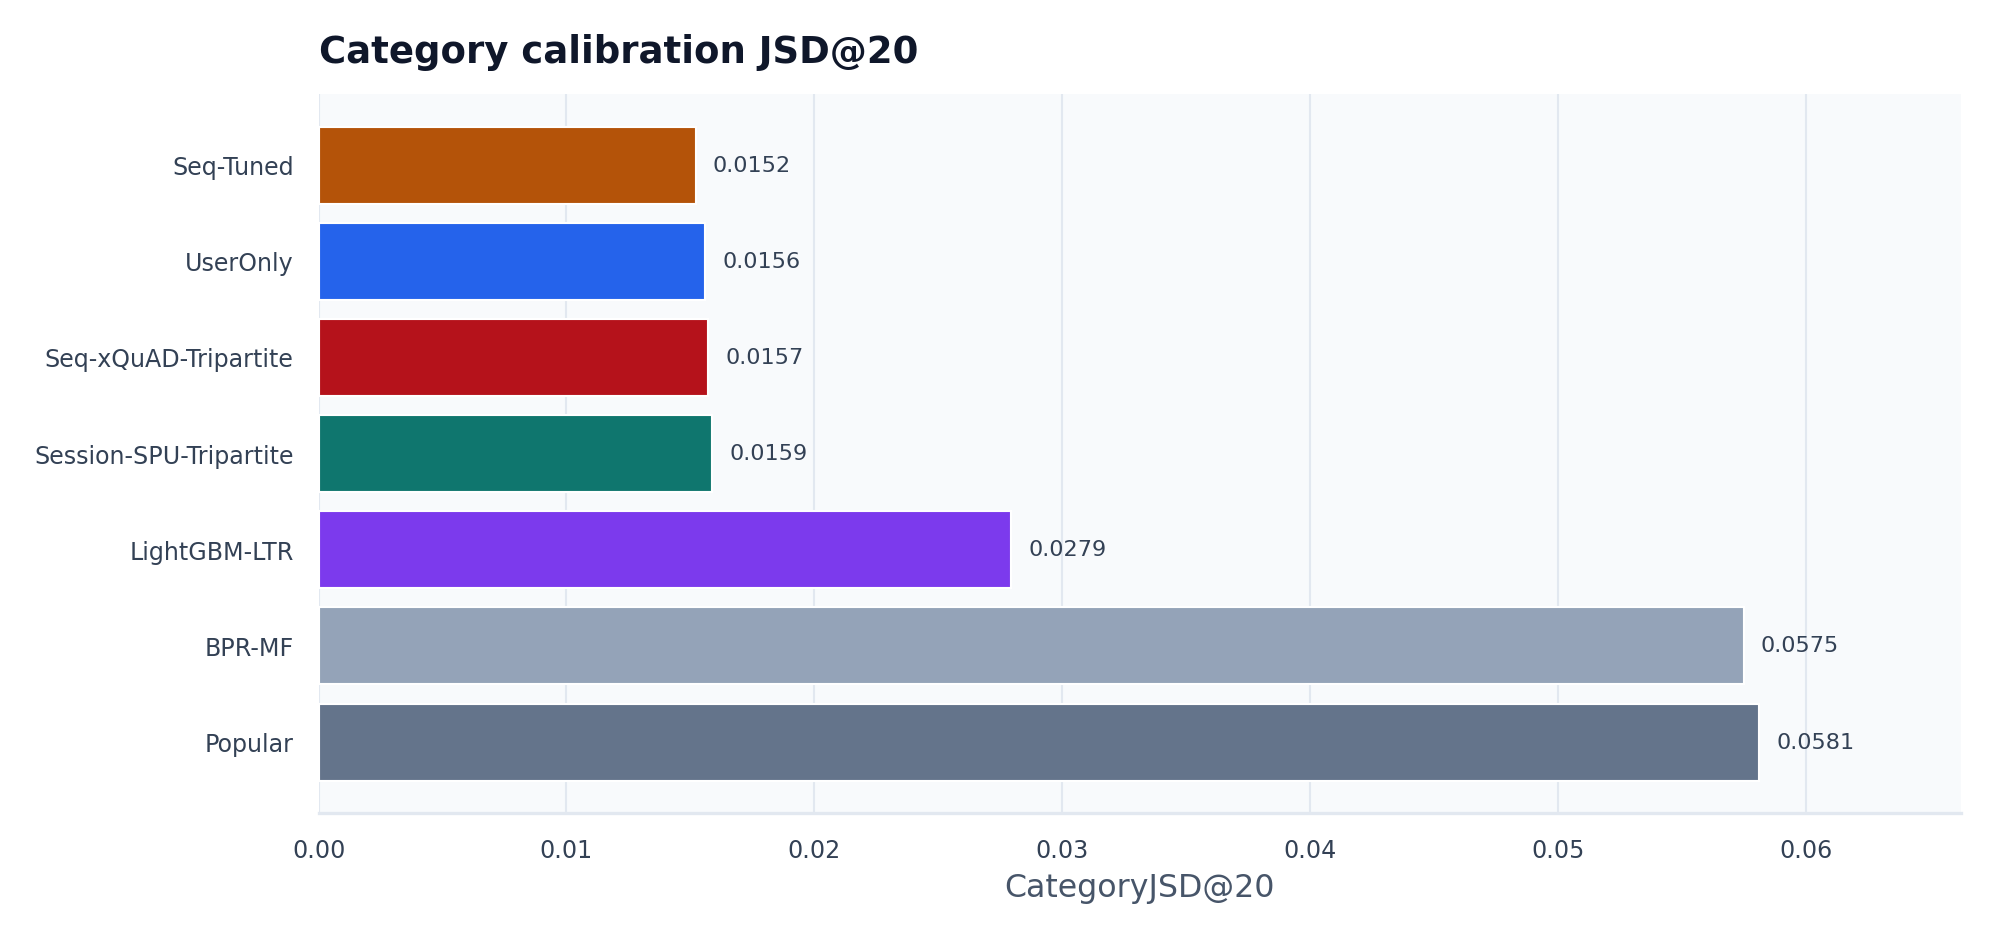
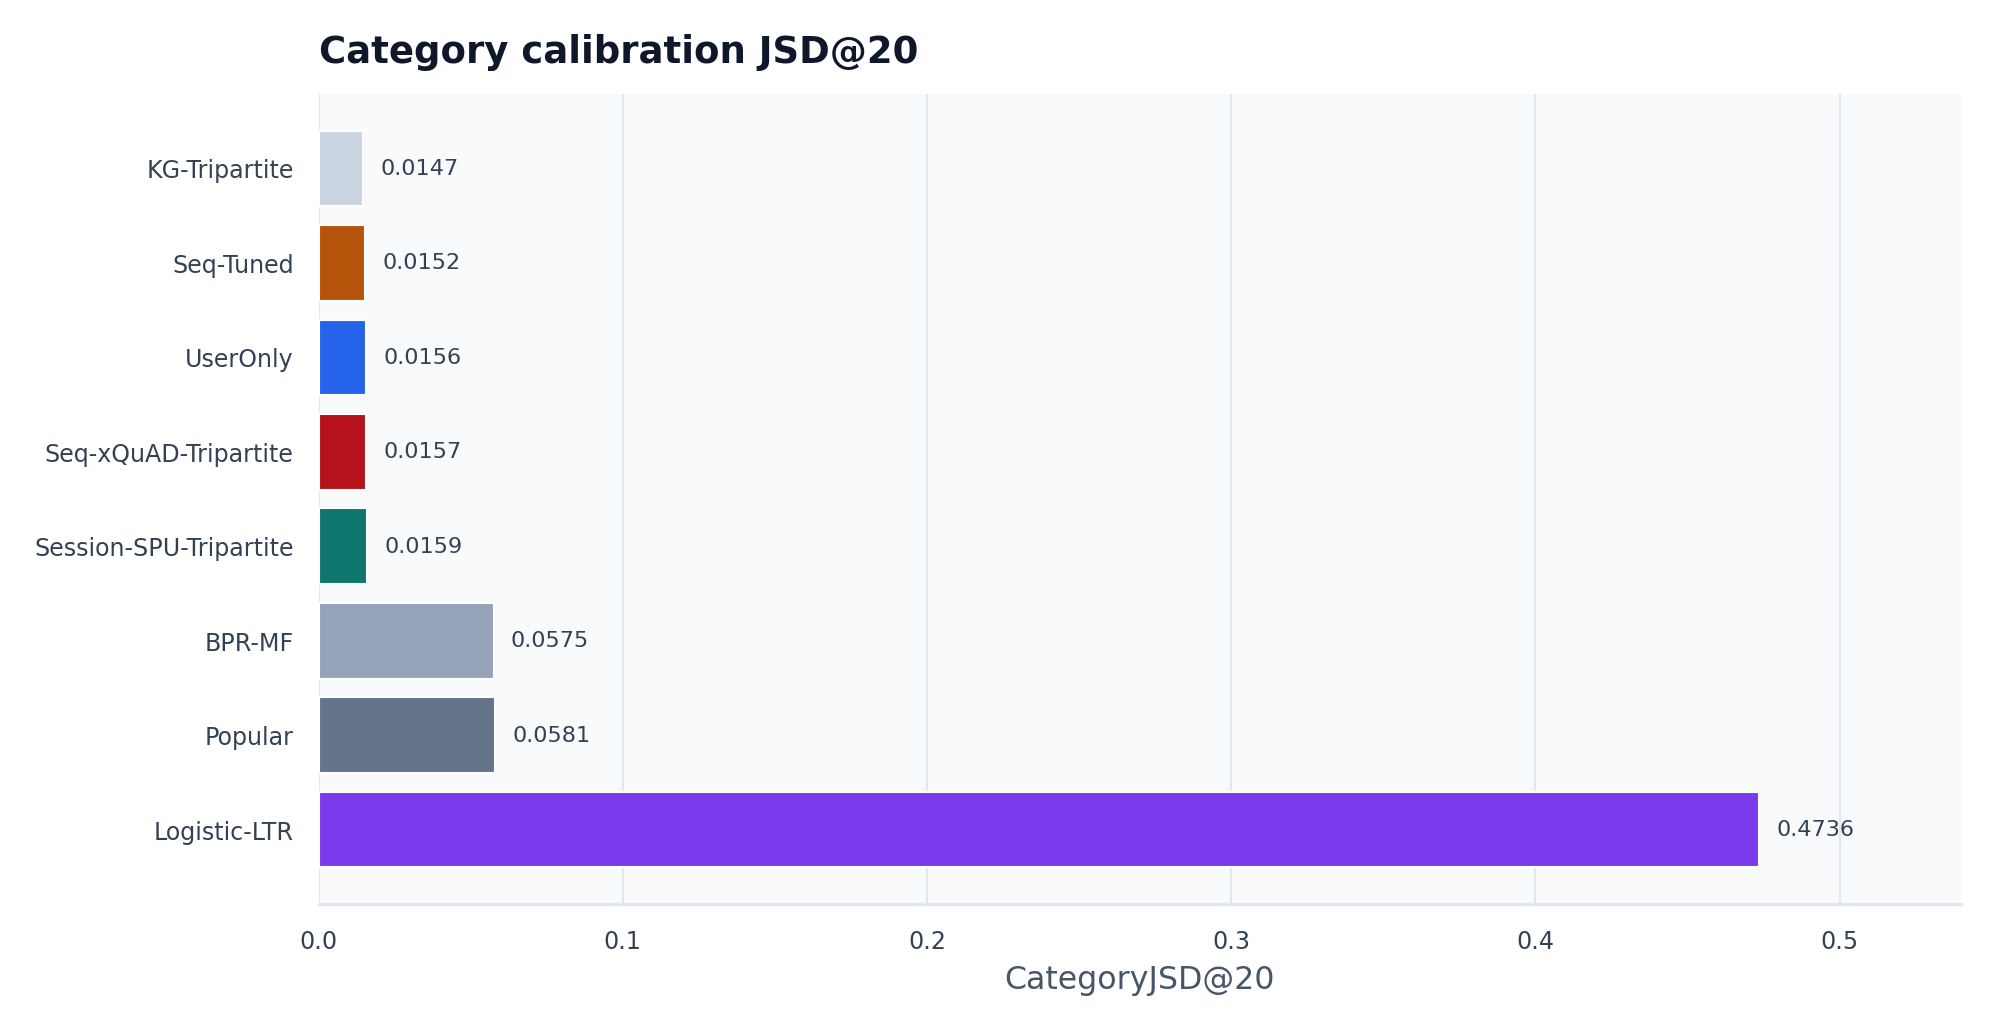
Refresh full-TRD results: 10-seed CI simulation, KG-Tripartite, fixed normalization
- offline_metrics: KG-Tripartite best tripartite variant (Recall@10 0.4136,
  HitRate@10 0.570), all tripartite scores now reflect session/spu/kg signals
- simulation_metrics: 10 seeds with mean/std/95% CI; KG-Tripartite + Batch
  leads avg ETA (45.08), timeout rate (0.417), platform utility (0.497±0.009)
- figures/report regenerated; report narrative covers KG fusion, multi-seed
  CI protocol, and calibration diagnostics

diff --git a/README.md b/README.md
@@ -254,21 +254,23 @@ make notebooklm-pack
 
 当前提交的结果已经使用完整 TRD `orders_train.txt`，数据审计显示原始训练订单 `1,068,495` 条，处理后训练订单 `1,068,495` 条，训练订单使用比例 `1.0000`。
 
-离线推荐中，`Seq-Tuned` 的 Recall@20 最高，为 `0.4675`，NDCG@20 为 `0.3652`，HitRate@20 为 `0.6267`，并取得最高 ExploreRecall@20 `0.1246`。`LightGBM-LTR` 的 Recall@20 为 `0.4424`，Coverage@20 为 `0.4345`，Exposure Gini 降到 `0.7942`，ExploreRecall@20 为 `0.0974`，说明默认评估中已经包含真正训练出来的学习排序。归一化后的 `Seq-xQuAD-Tripartite` 的 Recall@20 为 `0.4180`，NDCG@20 为 `0.3439`，把商家公平、ETA、供给分和列表级覆盖纳入同一套重排。
+离线推荐中，`Seq-Tuned` 的 Recall@10 最高，为 `0.4187`（NDCG@10 `0.3504`，HitRate@10 `0.5800`），代表纯用户侧准确率前沿。三方系列中 `KG-Tripartite` 表现最好：Recall@10 `0.4136`、NDCG@10 `0.3429`、HitRate@10 `0.5700`，在保留商家公平、ETA 和供给分量的同时几乎追平纯精度导向的序列模型；`Seq-xQuAD-Tripartite` 与 `Session-SPU-Tripartite` 的 Recall@10 均为 `0.3987`。
 
-动态履约仿真中，`Session-SPU-Tripartite + Greedy` 取得最低平均 ETA、最低超时率和最高平台综合效用；在同一批 91 个订单上，批量三方匹配相较逐单版本进一步降低 ETA 和超时率：
+动态履约仿真采用 10 个随机种子重复运行，报告均值与 95% 置信区间（完整 `_std`/`_ci95` 列见 `outputs/results/simulation_metrics.csv`）。`KG-Tripartite + Batch` 在平均 ETA、超时率和平台综合效用上全面领先：
 
-| 策略 | Avg ETA | Timeout Rate | Platform Utility |
+| 策略 | Avg ETA (±CI95) | Timeout Rate (±CI95) | Platform Utility (±CI95) |
 |---|---:|---:|---:|
-| Popular + Nearest | 89.68 | 0.8025 | 0.3218 |
-| UserOnly + MinETA | 52.14 | 0.6897 | 0.4060 |
-| Seq-Tuned + MinETA | 50.51 | 0.6163 | 0.4205 |
-| LightGBM-LTR + MinETA | 53.96 | 0.6854 | 0.3903 |
-| Seq-xQuAD-Tripartite + Greedy | 49.33 | 0.5604 | 0.4568 |
-| Seq-xQuAD-Tripartite + Batch | 48.32 | 0.5275 | 0.4581 |
-| Session-SPU-Tripartite + Greedy | 46.47 | 0.4941 | 0.4694 |
+| Popular + Nearest | 81.76 ±4.00 | 0.782 ±0.023 | 0.330 ±0.007 |
+| UserOnly + MinETA | 50.05 ±1.54 | 0.593 ±0.046 | 0.446 ±0.014 |
+| Seq-Tuned + MinETA | 49.32 ±1.33 | 0.568 ±0.043 | 0.455 ±0.015 |
+| Logistic-LTR + MinETA | 50.59 ±1.13 | 0.605 ±0.035 | 0.445 ±0.012 |
+| Seq-xQuAD-Tripartite + Greedy | 46.91 ±1.27 | 0.482 ±0.043 | 0.481 ±0.015 |
+| Seq-xQuAD-Tripartite + Batch | 45.95 ±1.30 | 0.442 ±0.052 | 0.487 ±0.017 |
+| Session-SPU-Tripartite + Greedy | 46.88 ±1.27 | 0.465 ±0.043 | 0.494 ±0.007 |
+| Session-SPU-Tripartite + Batch | 45.94 ±1.11 | 0.456 ±0.045 | 0.490 ±0.010 |
+| KG-Tripartite + Batch | 45.08 ±1.13 | 0.417 ±0.043 | 0.497 ±0.009 |
 
-结论不是“单一模型在所有指标上最优”，而是：`Seq-Tuned` 取得最强离线推荐准确性；`LightGBM-LTR` 展示学习排序和覆盖改善；三方匹配改善履约；`Session-SPU-Tripartite` 进一步利用训练期会话与菜品信号取得当前最高平台效用。
+结论不是“单一模型在所有指标上最优”，而是：`Seq-Tuned` 取得最强离线推荐准确性；`LightGBM/Logistic-LTR` 展示学习排序路线；三方重排 + 批量二分图匹配系统性改善履约（三方系列相对纯用户侧策略的 ETA/超时率差距大于 95% 置信区间）；`KG-Tripartite` 在此之上叠加知识图谱兴趣信号，取得当前最优的履约与平台效用组合。
 
 ## 图表示例
 
